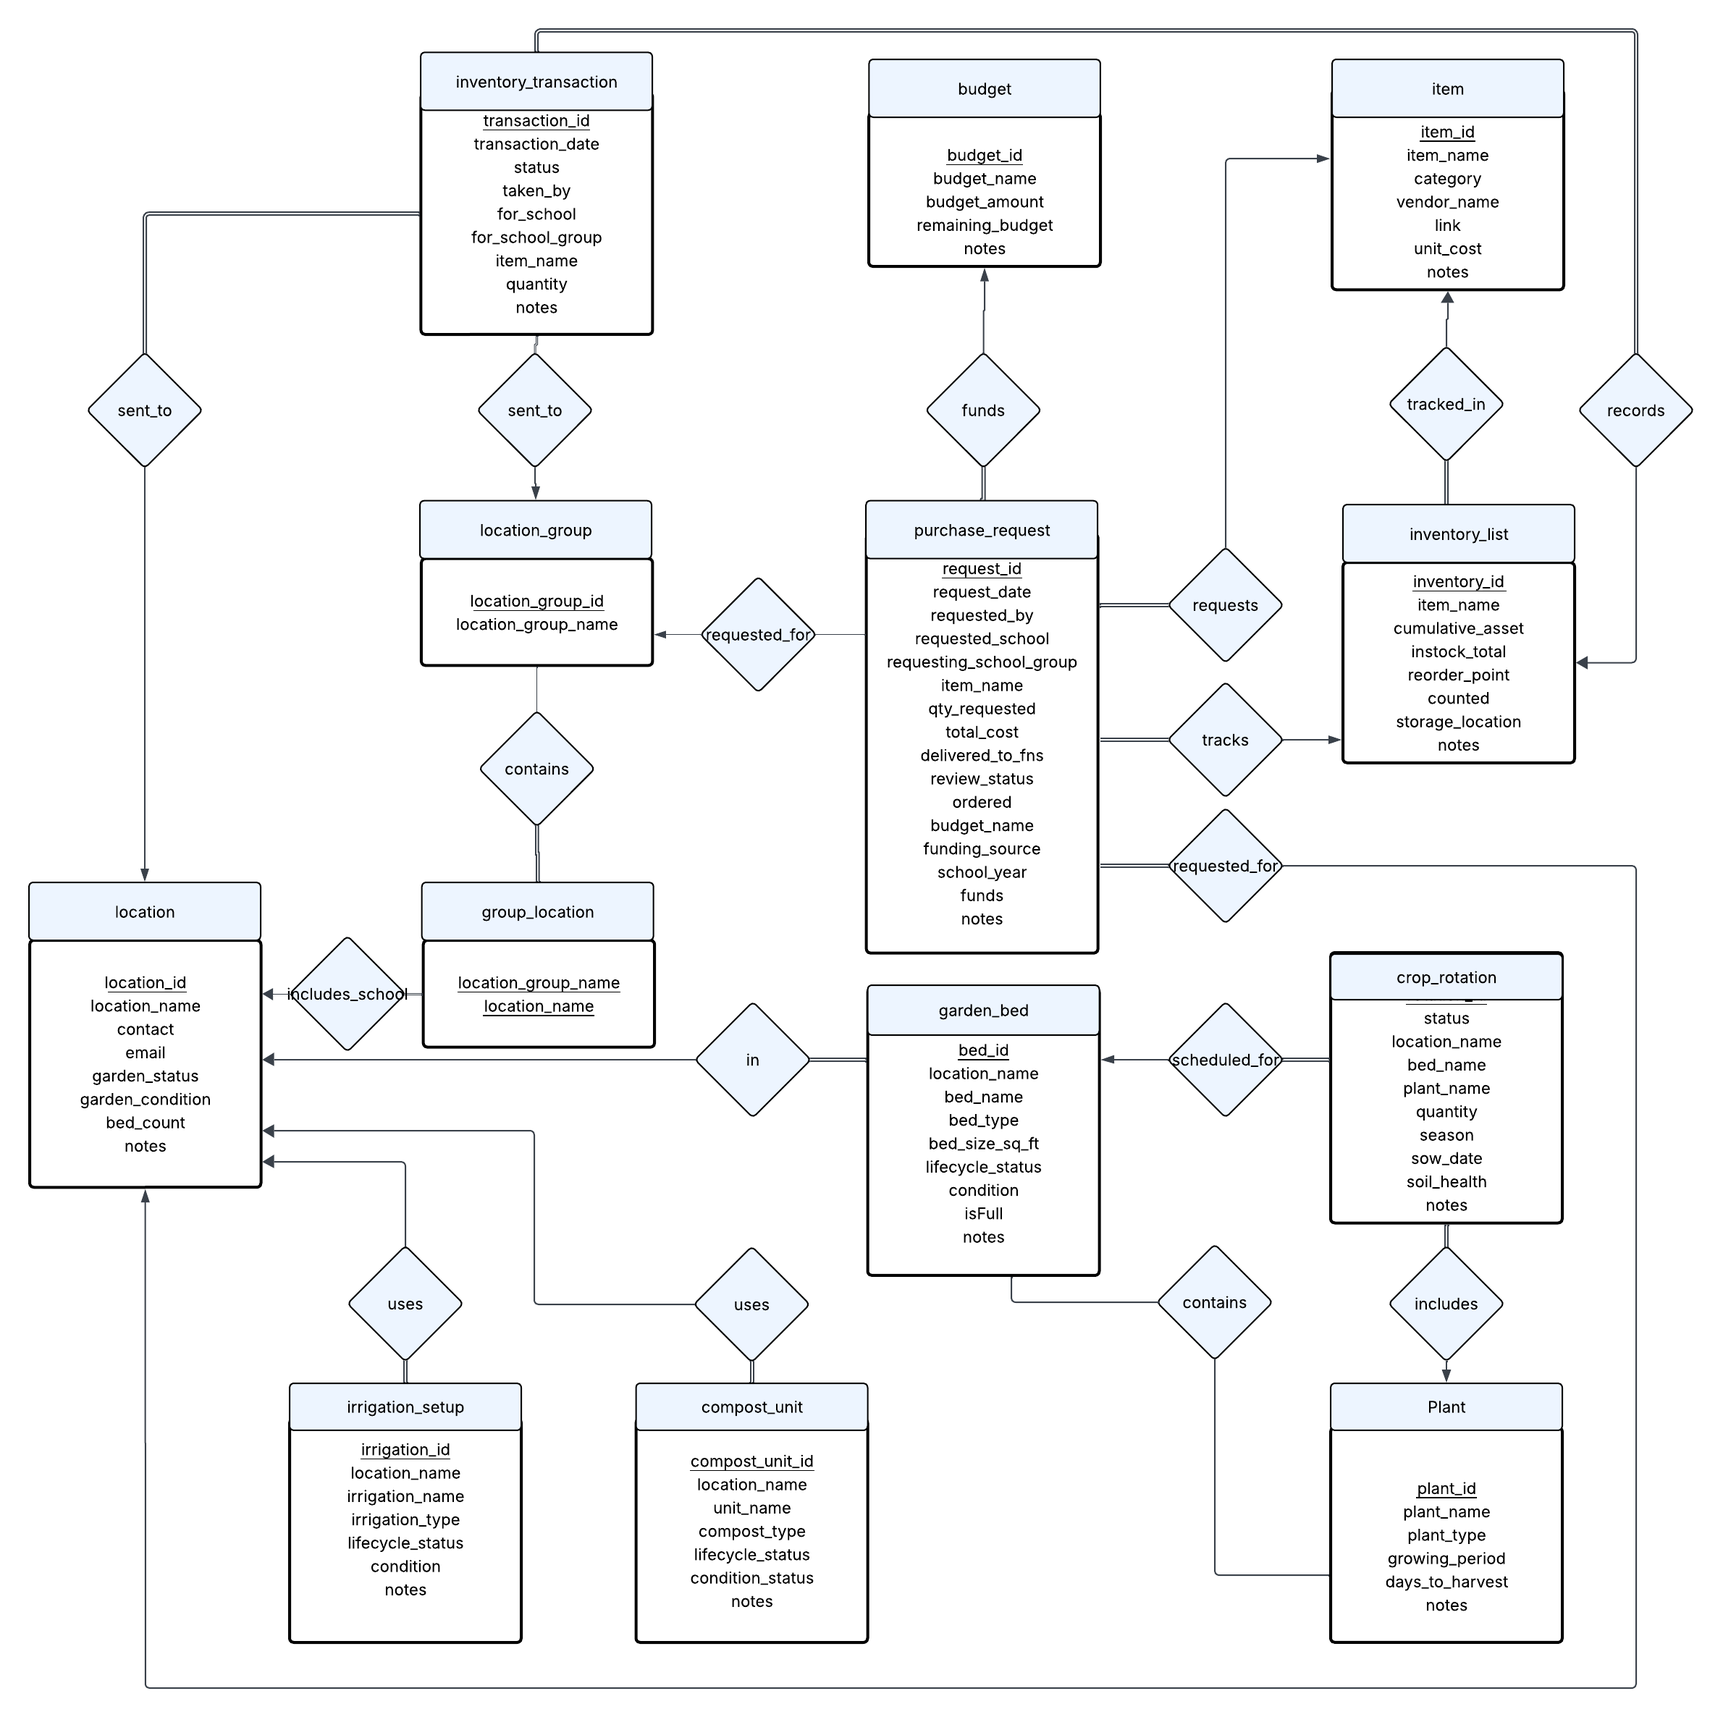
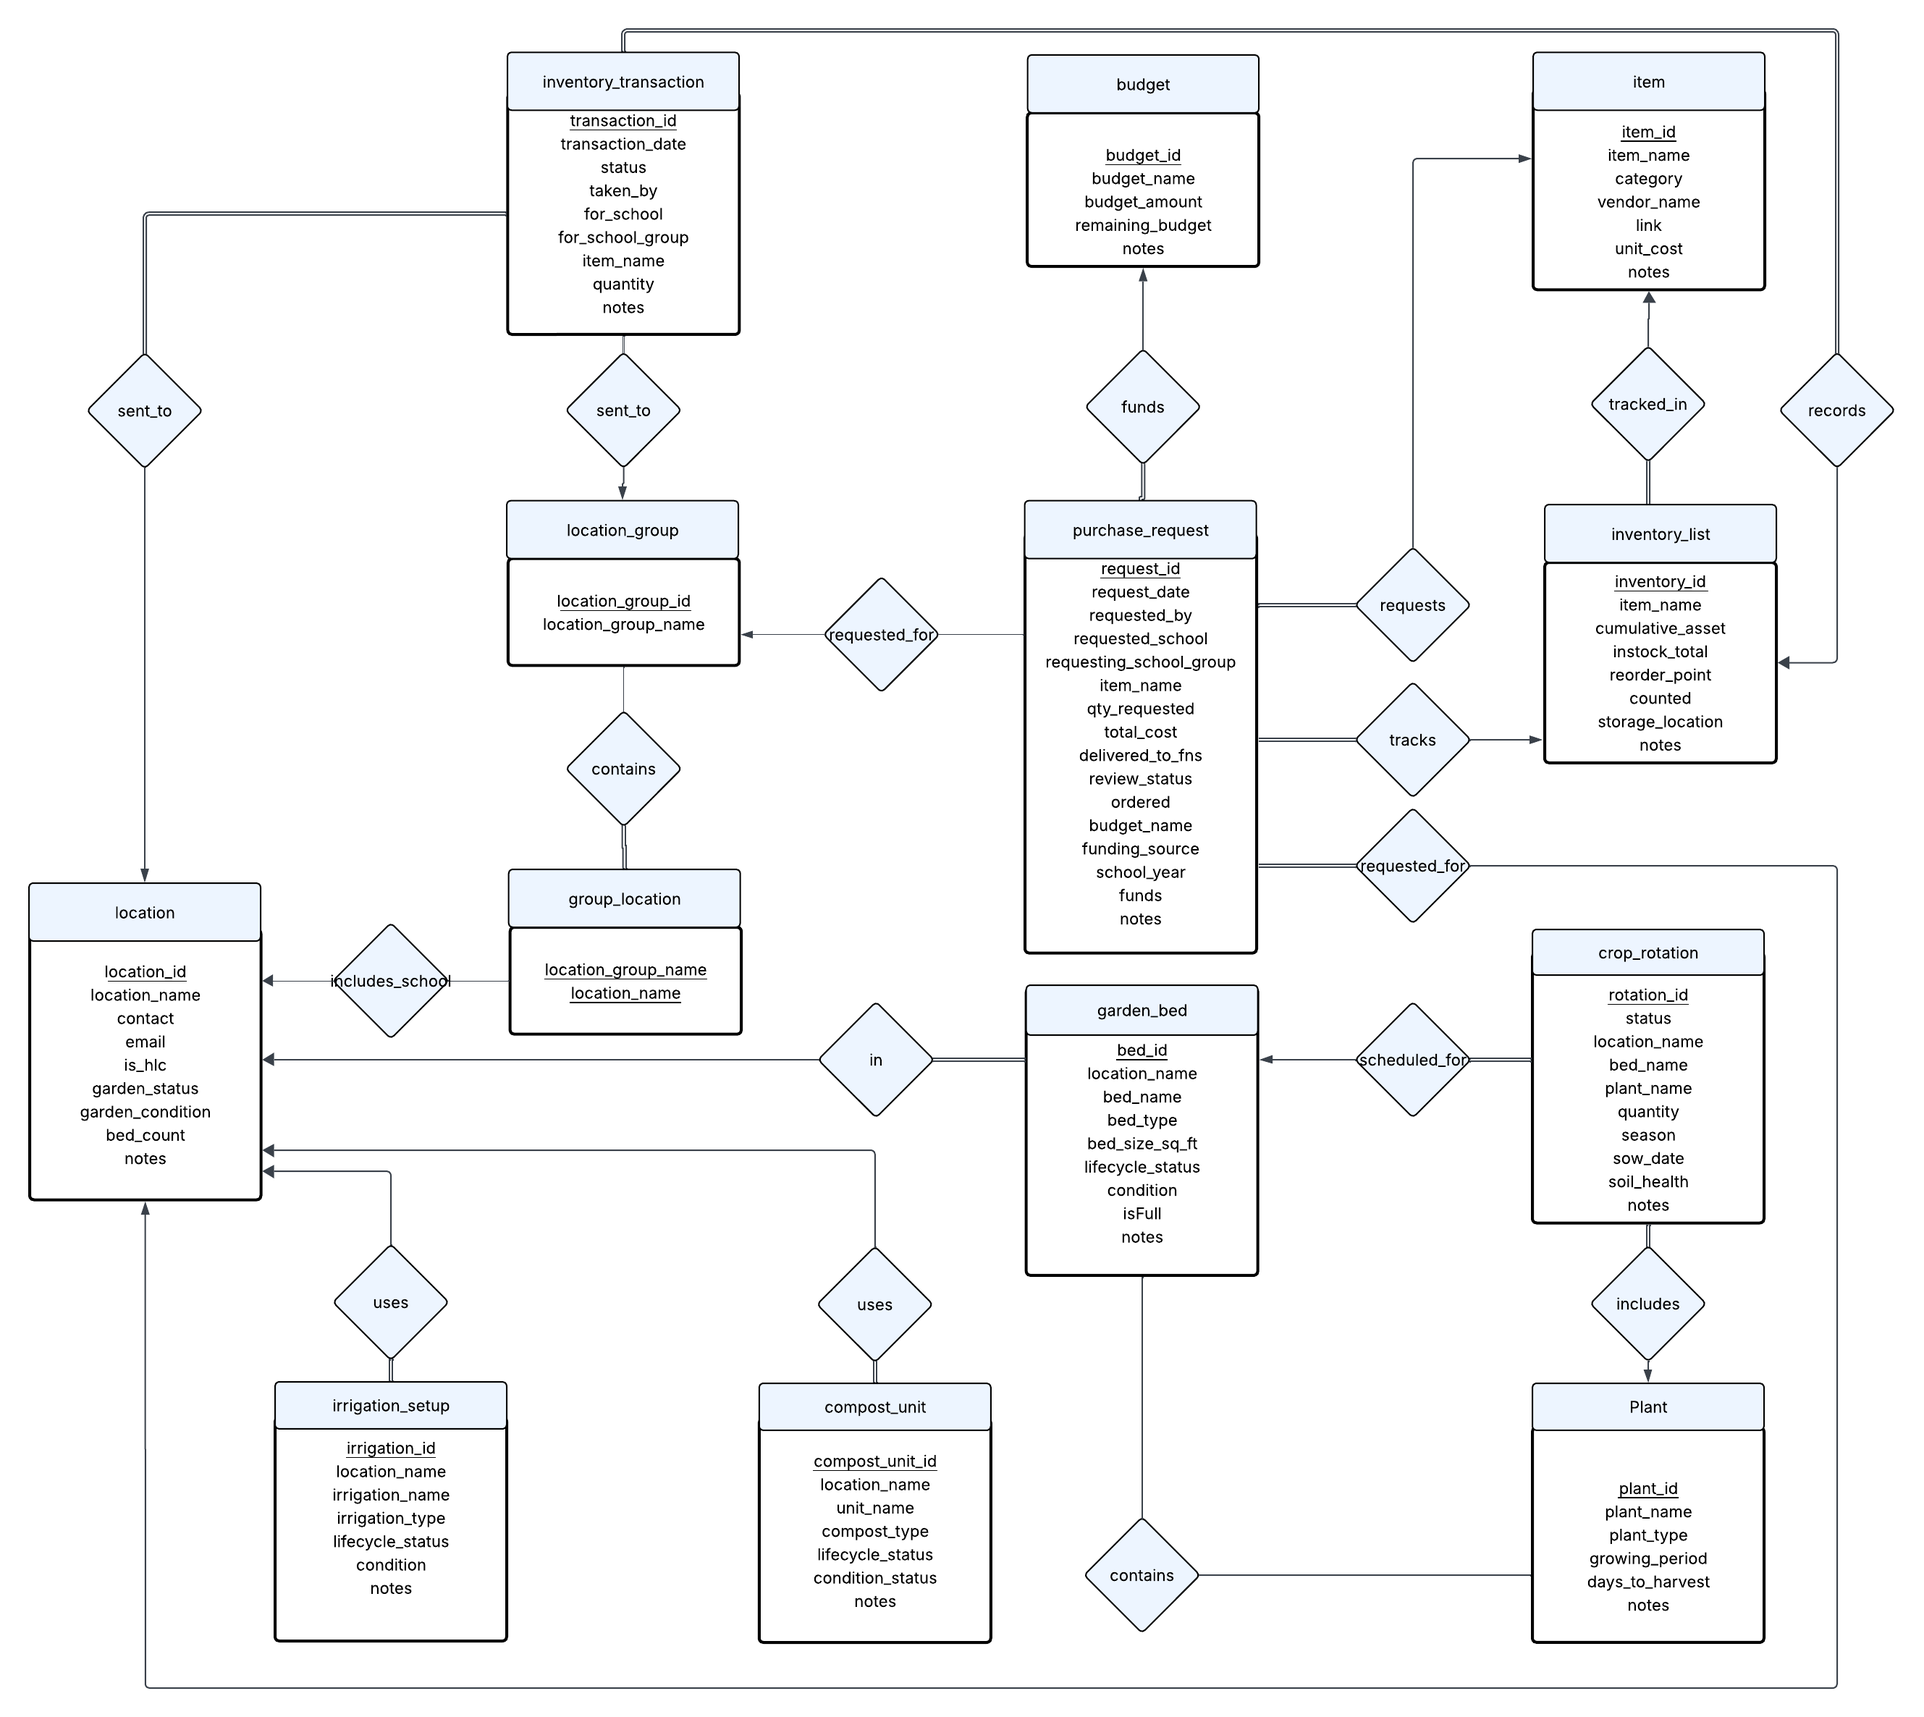
add and update docs

diff --git a/docs/supabase_user_guide.md b/docs/supabase_user_guide.md
@@ -1,0 +1,300 @@
+# LCSD Garden Database
+
+## Supabase User Guide
+
+**Purpose:** This guide explains how to access and use the LCSD Garden Database in Supabase to view, add, update, search, and delete records.
+
+The database helps organize school garden information, inventory, supply requests, budgets, planting schedules, and other gardening activities.
+
+Most daily work will take place in one area: **Table Editor**.
+
+## 1. Accessing the Correct Database
+
+1. Open Supabase and sign in with your account.
+2. At the top of the screen, find the project name.
+3. Click the small up/down arrows beside the project name to open the project selection menu.
+4. You should see two projects:
+   - **LCSD Garden DataBase** — The main database you will use.
+   - **test 2** — A separate testing project.
+5. Select **LCSD Garden DataBase**.
+
+**Important:** Always verify that you are working in LCSD Garden DataBase, not the testing project. Changes made in the testing project will not update the main database.
+
+## 2. Opening the Table Editor
+
+Once you are in the correct project:
+
+1. Look at the navigation menu on the left side.
+2. Click **Table Editor**, represented by a small table/grid icon.
+3. If the navigation menu is collapsed, hover over the icons to see their names.
+4. At the top of the Table Editor, locate the schema dropdown.
+5. Make sure it is set to **public**.
+
+Always use the `public` schema. The left panel displays the available tables and views.
+
+### Understanding Tables and Views
+
+Tables store information and allow you to add, update, and delete records. Examples include:
+
+- `location` — School locations and garden information.
+- `location_group` — Groups of school locations.
+- `group_location` — Connects individual schools to location groups.
+- `item` — Catalog of supplies, tools, and equipment.
+- `inventory_list` — Available inventory and stock quantities.
+- `inventory_transaction` — Records inventory distribution and checkout.
+- `purchase_request` — Supply and purchasing requests.
+- `budget` — Budget information.
+- `garden_bed` — Garden bed information.
+- `plant` — Plant information.
+- `crop_rotation` — Planned crop rotations.
+- `irrigation_setup` — Irrigation information.
+- `compost_unit` — Composting information.
+
+Views display information collected or calculated from existing tables. They make it easier to review information without manually searching through several tables. Examples include:
+
+- `RestockList` — Supplies that may need restocking.
+- `PendingRequests` — Pending purchase requests.
+- `SchoolSupply` — School supply information.
+- `CropCalendar` — Crop scheduling information.
+- `BedPlanting` — Garden bed and planting information.
+- `GardenAssets` — Garden asset information.
+- `BudgetPurchases` — Budget and purchasing information.
+- `FundingSourceSpending` — Spending by funding source.
+- `YearlyPurchase` — Yearly purchasing information.
+
+**Important:** Use views primarily to review information. Make changes in the appropriate tables.
+
+## 3. Viewing Information
+
+1. Open Table Editor and make sure the schema is `public`.
+2. Select the table or view you want from the left panel.
+3. The records will appear in rows and columns.
+
+Each row represents one record. Each column represents a piece of information about that record. For example, in `inventory_list`:
+
+- `item_name` identifies the supply or equipment.
+- `cumulative_asset` represents the cumulative asset quantity.
+- `instock_total` shows the quantity currently available.
+
+You can scroll horizontally to see additional columns.
+
+## 4. Searching and Filtering Records
+
+Filters help you find specific information without scrolling through the entire table.
+
+### How to Apply a Filter
+
+1. Open the table or view you want to search.
+2. Click **Filter** or **Add filter** near the top.
+3. Select the column you want to search.
+4. Choose a comparison option.
+5. Enter the value you want to find.
+6. Apply the filter.
+
+You can filter by any available column.
+
+### Common Filter Options
+
+| Filter | Meaning | Example |
+|---|---|---|
+| Equals | Matches an exact value | `status = Checked Out` |
+| Not equal | Excludes a specific value | `status != Checked Out` |
+| Greater than | Values above a number | `quantity > 10` |
+| Less than | Values below a number | `quantity < 5` |
+| Greater or equal | Values at or above a number | `quantity >= 10` |
+| Less or equal | Values at or below a number | `quantity <= 5` |
+| Like | Matches a text pattern | `item_name LIKE %Gloves%` |
+| iLike | Matches text without case sensitivity | `item_name ILIKE %gloves%` |
+
+### Example: Finding a School
+
+To see inventory transactions for Dunbar High School:
+
+1. Open `inventory_transaction`.
+2. Click **Filter**.
+3. Select `for_school`.
+4. Choose **Equals**.
+5. Enter `Dunbar High School`.
+
+The table will show matching transactions.
+
+When using Equals, the value must match the stored information accurately. If you are unsure of the exact spelling or capitalization, use iLike with `%` around part of the name.
+
+### Removing Filters
+
+If a table suddenly appears empty, you may have an active filter. Look near the top of the table for the filter and click the **X** to remove it. An empty table does not necessarily mean the records were deleted.
+
+## 5. Sorting Information
+
+Sorting organizes records in a particular order. For example, you might want to see the newest inventory transactions first or the lowest stock quantities.
+
+1. Open a table or view.
+2. Click **Sort** near the top.
+3. Choose the column you want to sort.
+4. Select ascending or descending order.
+
+Examples:
+
+- Sort `transaction_date` descending to see newer transactions first.
+- Sort `instock_total` ascending to see the lowest stock quantities first.
+- Sort `item_name` ascending to organize supplies alphabetically.
+
+Sorting only changes how the information is displayed. It does not change the records themselves.
+
+## 6. Adding New Records
+
+1. Open Table Editor and select the table you want to update.
+2. Click the green **Insert** button in the upper-right corner.
+3. Choose to insert a new row.
+4. Fill in the required fields and any optional fields that apply.
+5. Click **Save**.
+
+### Important Rules When Adding Records
+
+- **Leave ID fields alone.** Columns such as `item_id`, `transaction_id`, and `location_id` are automatically generated by the database. You do not need to enter an ID.
+- **Understand NULL values.** `NULL` means the field currently has no value. For example, if a notes field is `NULL`, no notes have been entered. Some fields are optional and can remain empty. Required fields must have a value before the record can be saved.
+- **Use the small editor icon.** Some fields have a small editor or selection icon on the right side. Click it to enter or select the appropriate value. For fields connected to another table, this may open a list of existing records.
+
+### Example: Adding an Inventory Transaction
+
+1. Open `inventory_transaction` and click **Insert**.
+2. Leave `transaction_id` unchanged.
+3. Select the appropriate status.
+4. Enter the person's name in `taken_by`.
+5. Select an existing `item_name` and enter the quantity.
+6. Select the appropriate `for_school` or `for_school_group`, as applicable.
+7. Leave `transaction_date` blank if you want the current date automatically entered.
+8. Add any optional notes and click **Save**.
+
+Make sure the quantity, item, and receiving location are correct before saving, since inventory transactions may affect stock totals.
+
+## 7. Understanding Connected Records
+
+Some columns are connected to information stored in another table. These are called foreign key relationships. For example:
+
+- An inventory transaction references an item from `inventory_list`.
+- A school name references a record in `location`.
+- A location group references a record in `location_group`.
+
+This helps prevent incorrect or inconsistent information.
+
+### What Happens If a Value Doesn't Exist?
+
+Suppose you try to enter a school name that has not been added to the `location` table. The database may reject the entry because that school does not exist in the referenced table.
+
+To resolve this:
+
+1. Check whether the value already exists in the referenced table.
+2. Verify the spelling.
+3. If it is a genuinely new school or item, add it to the appropriate table first, if authorized.
+4. Return to the original table and complete your entry.
+
+**Tip:** Whenever a field offers a record-selection icon, use it instead of manually typing the value. This reduces spelling mistakes and relationship errors.
+
+## 8. Editing Existing Records
+
+1. Open the table and find the record you want to change.
+2. Double-click the column value you want to edit.
+3. Enter the updated information or select a new value.
+4. Save or confirm the change if prompted.
+
+For example, you could update a garden's status, correct an item description, or change a contact email. You do not need to create a new row just to change an existing value.
+
+**Important:** Be careful when changing quantities, budget values, or transaction records because some database functions automatically calculate or update related information.
+
+## 9. Deleting Records
+
+If a record was entered incorrectly and needs to be removed:
+
+1. Open the appropriate table and find the row you want to delete.
+2. Click the small checkbox on the far-left side of that row. A checkmark will appear.
+3. Click the red **Delete 1 row** button near the top.
+4. Review the selection and confirm the deletion.
+
+You can select multiple rows, but always verify which records are selected.
+
+**Important:** Deleting a record may affect other information or be blocked because another table references it. Do not delete records simply because they are old or no longer active. If you are unsure whether something should be deleted, ask before proceeding.
+
+## 10. Using Views for Gardening Activities
+
+Views organize information already stored in the database.
+
+- **Checking inventory:** Open `inventory_list` to review available supplies. Use `RestockList` to identify items that may need to be reordered.
+- **Reviewing school supplies:** Open `SchoolSupply` and filter by school to focus on a specific location.
+- **Reviewing purchase requests:** Open `PendingRequests` to review requests that still need attention. Open `BudgetPurchases`, `FundingSourceSpending`, or `YearlyPurchase` to review purchasing and spending information.
+- **Reviewing gardens and planting:** Open `GardenAssets` to review garden-related information. Use `BedPlanting` for planting information associated with garden beds and `CropCalendar` for crop scheduling.
+
+You can use these views to determine which gardening records or supplies need updating. Views are primarily for reviewing information; make changes in the underlying tables.
+
+## 11. Changing the Appearance
+
+Supabase allows you to switch between light and dark mode.
+
+1. Click your profile icon in the upper-right corner.
+2. Find the **Theme** section.
+3. Choose **System** (matches your device settings), **Dark** (dark background), or **Light** (light background).
+
+This only changes the appearance of Supabase. It does not affect your database information.
+
+## 12. Using the Supabase AI Assistant
+
+Supabase includes an AI Assistant that can help answer questions about the database. You can access it using the AI Assistant icon near the upper-right area of the dashboard.
+
+The assistant may be useful for understanding relationships between tables, finding where information is stored, explaining a column or table, or creating read-only queries to view specific records.
+
+### Important AI Safety Rules
+
+Use the AI Assistant with caution and only when needed. Use it to help view and understand data, not to modify the database structure. Do not ask it to delete tables or views, drop database objects, remove columns, change relationships, modify functions/triggers/permissions, or delete or overwrite existing records.
+
+If the AI Assistant generates SQL, make sure it is a read-only `SELECT` query before running it. Never execute commands such as `DROP`, `DELETE`, `TRUNCATE`, `ALTER`, or `UPDATE` through the AI Assistant without approval. If you are unsure what a query does, do not run it.
+
+## 13. Inviting Additional Members
+
+Authorized team members can invite others to access Supabase.
+
+### How to Invite Someone
+
+1. Open the Supabase dashboard.
+2. Go to the organization or team settings using the settings gear icon.
+3. Select **Team** or **Members**.
+4. Click **Invite members**.
+5. Enter the person's email address, select the appropriate role, and send the invitation.
+
+The person will receive an invitation to join the organization.
+
+### Understanding the Roles
+
+| Role | Purpose | Recommendation |
+|---|---|---|
+| Owner | Full control of the organization, including sensitive administrative settings | Reserved for the primary owner |
+| Administrator | Can manage organization settings and members | Only for someone responsible for managing access |
+| Developer | Can work with the project's database and development features | Recommended for regular database users |
+
+**Recommended role:** Developer. Most users who need to work with the gardening database should receive Developer access. Administrator access should be limited to trusted members who need to manage users and organization settings. Owner access should remain restricted.
+
+**Note:** These are Supabase organization roles, not separate read-only and editing permissions for individual tables. Developer access can include powerful database capabilities, so only invite trusted users.
+
+## 14. What Areas of Supabase Should You Use?
+
+For regular database activities, primarily use:
+
+**Table Editor → `public` schema → Tables and Views**
+
+This is where you can review school and garden information; add, update, search, filter, and sort records; review inventory and purchasing information; and delete records when necessary.
+
+Other Supabase sections, including SQL Editor, Database configuration, Authentication, API settings, and infrastructure settings, should generally be left alone unless technical changes have been discussed and approved. These areas may become relevant later if the project introduces a separate website or application, additional security requirements, or changes to the Supabase subscription.
+
+## 15. Quick Troubleshooting
+
+| Problem | What to do |
+|---|---|
+| I cannot find the gardening tables | Make sure you're in LCSD Garden DataBase and the `public` schema. |
+| My table is empty | Check for active filters and remove them using the X. |
+| I cannot find a record | Verify the spelling or try an iLike filter. |
+| My new record will not save | Check required fields and confirm referenced records exist. |
+| A school or item isn't available to select | Add it to the appropriate referenced table first, if authorized. |
+| I see NULL | The field has no value; it may be optional. |
+| I don't know what ID to enter | Leave automatically generated ID fields alone. |
+| A deletion fails | Another record may depend on it; do not force the deletion. |
+| I accidentally changed something | Stop and notify the database team so the change can be reviewed. |
+| I don't understand a table or relationship | Ask the database team or use the AI Assistant for read-only explanations. |
